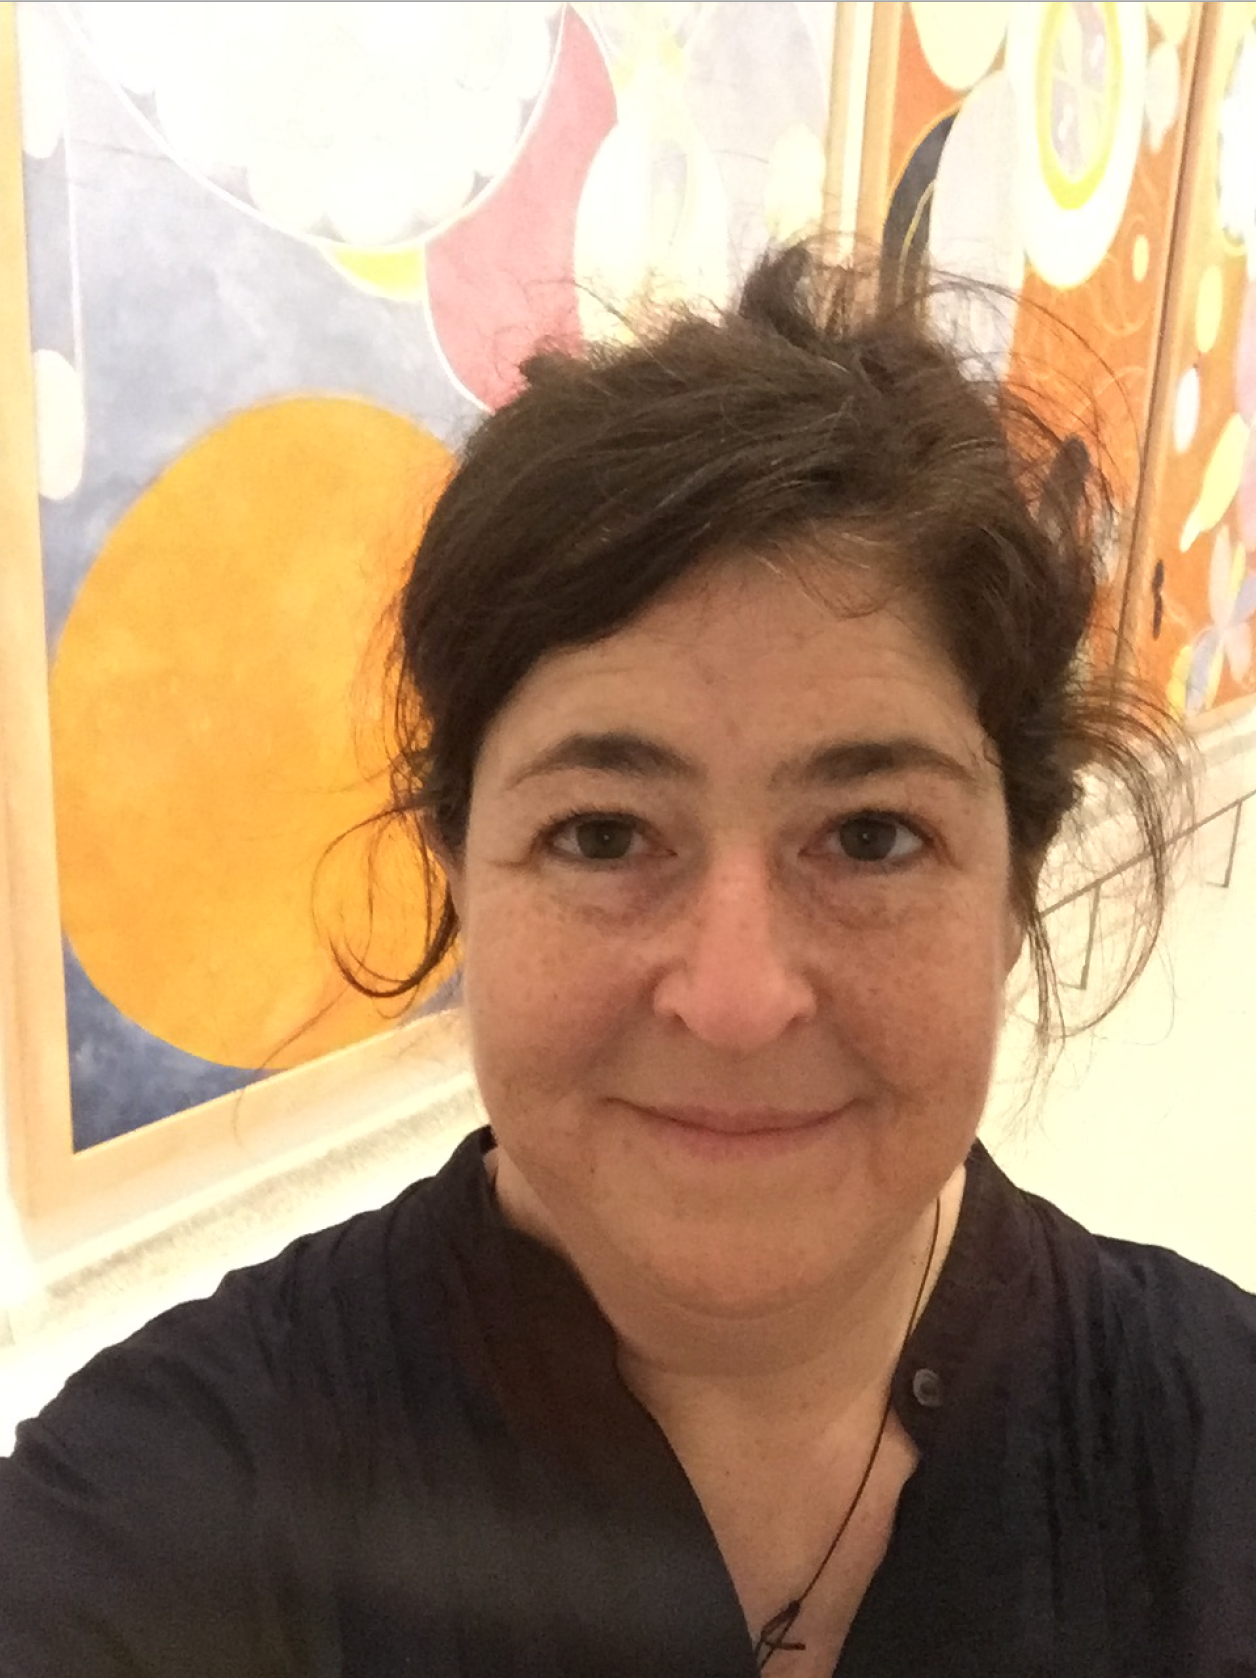
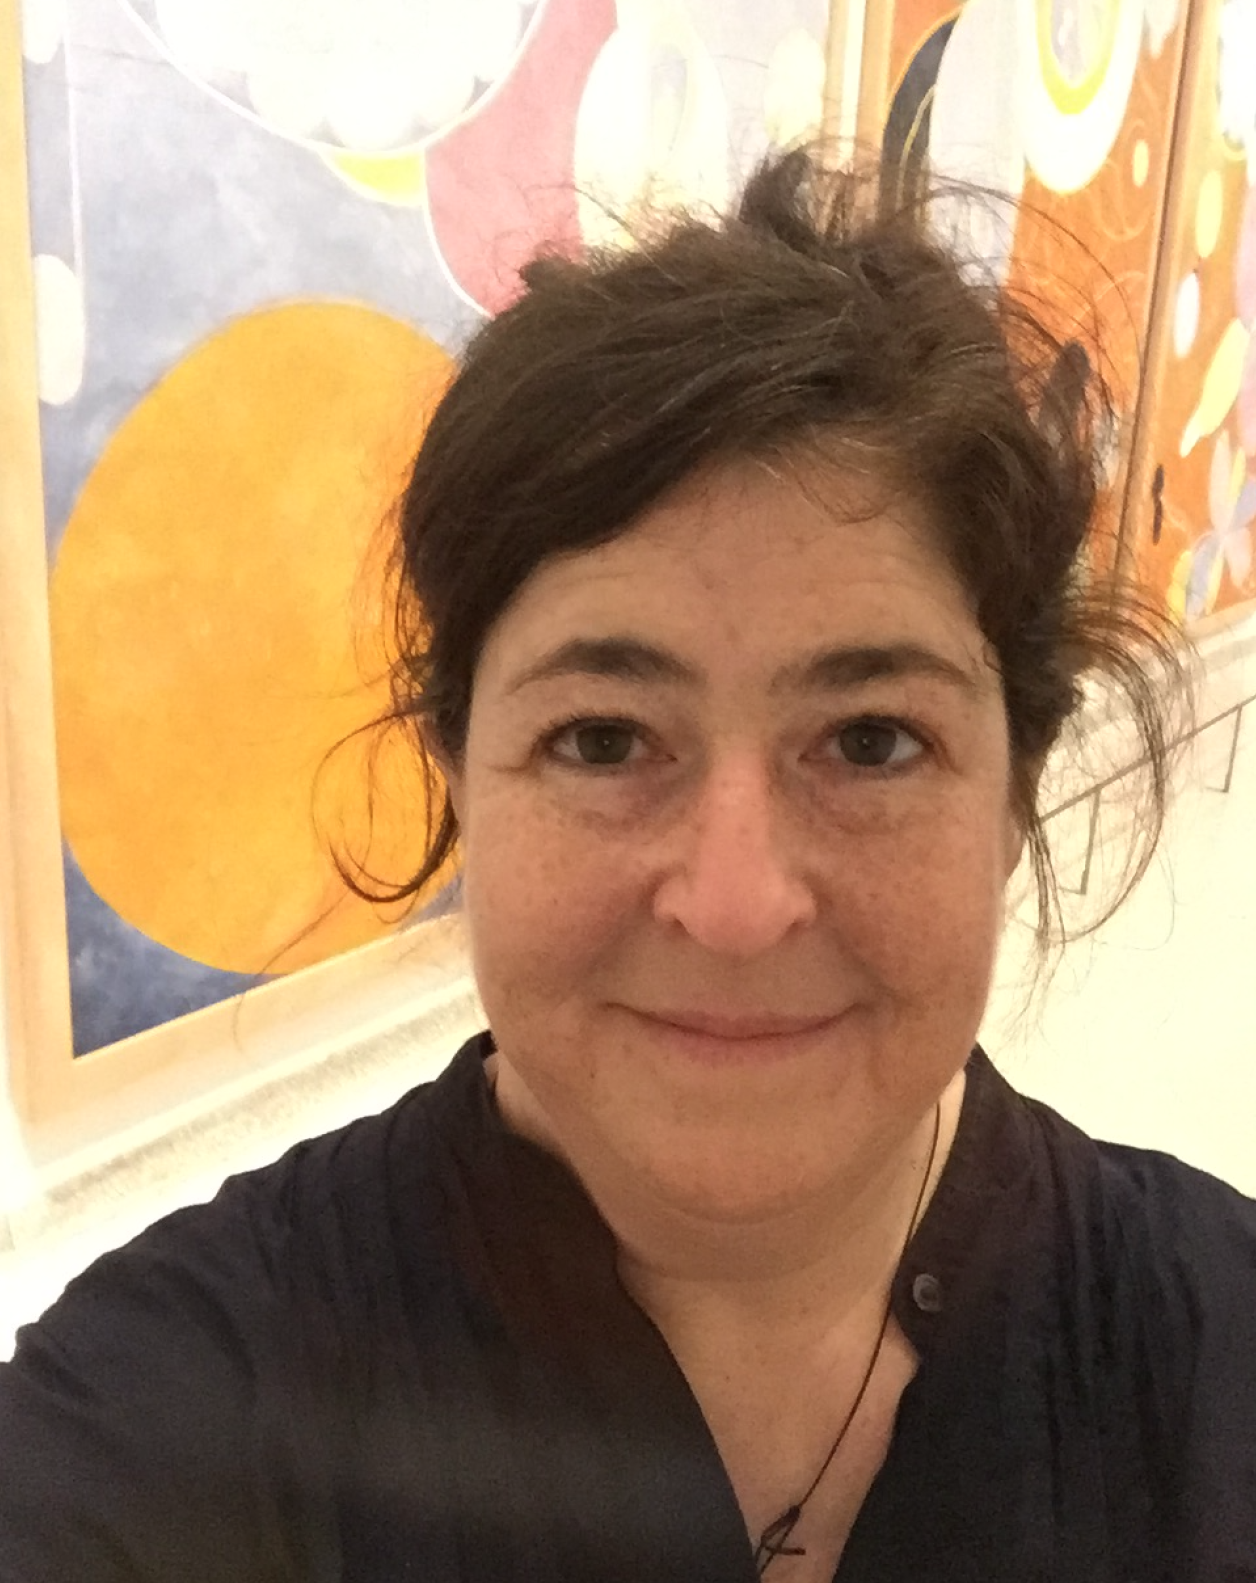
new order of elements on index page, marci new image added second pullout testimonial

diff --git a/index.html b/index.html
@@ -66,19 +66,13 @@
           <a href="mailto:marcidenmark@me.com" class="nav"> Get in touch!</a> </span>
       </div>
     </div>
+    <div class="spacing-70px"></div>
 
 
-
-    <!-- helena quote -->
-    <section class="banner-flex peach-background">
-      <h3>
-        <i class="nav fas fa-angle-double-right" style="font-size: 30px; color: #fc4827;"> </i> I can show Marci our vision, provide her with the content, and she turns it into beautiful UI. <i class="nav fas fa-angle-double-right" style="font-size: 30px; color: #fc4827;"></i> <span class="person">Helena Levison, founder CPHUX</span>
-      </h3>
-    </section>
     <!--  about  -->
-    <div class="two-col-grid-container">
-      <div class="marci">
-        <img src="images/marci-small.jpg" alt="" class="marci">
+    <div class="about-container">
+      <div class="">
+        <img src="images/marci-new.jpg" alt="" class="marci">
       </div>
       <div class="about-text">
         <div>
@@ -86,12 +80,9 @@
         </div>
         <div style="margin-top: 20px;">
           <div>
-            With years of experience working together with designers, writers, developers, managers, and various steak holders I know
+            With years of experience working together with designers, writers, developers, managers, and various stake holders I know
             how to create products that are engaging and meet expectations across departments and users.
           </div>
-          <!-- <div style="margin-top: 20px;">
-          I am avaliable for positions and projects with web design, UI, product design and frontend code.
-          </div> -->
           <div style="margin-top: 20px;">
             Reach out and we can talk about what you are looking for. I look forward to hearing from you!
           </div>
@@ -101,25 +92,20 @@
       </div>
     </div>
     <div class="spacing-70px"></div>
+
+    <!-- helena quote -->
+    <section class="banner-flex peach-background">
+      <h3>
+        <i class="nav fas fa-angle-double-right" style="font-size: 30px; color: #fc4827;"> </i> I can show Marci our vision, provide her with the content, and she turns it into beautiful UI. <i class="nav fas fa-angle-double-right" style="font-size: 30px; color: #fc4827;"></i> <span class="person">Helena Levison, founder CPHUX</span>
+      </h3>
+    </section>
+    <div class="spacing-70px"></div>
+
+    <div class="spacing-70px"></div>
     <a name="accomplishments"></a>
     <div class="headlines">Sampling of Projects</div>
     <div class="portfolio-banner-frontpage">
       <section class="">
-        <!-- Railsgirls
-        <div class="portfolio-box">
-          <h5>RailsGirls Mentoring App</h5>
-          <div class="subhead">
-            Figma Design / Wireframing / Prototyping / Design System / UI
-          </div>
-        <div class="portfolio-piece" style="background-image: url('images/railsgirls-b.png');">
-        </div>
-          <p>
-            I started with a wireframe where the other members of the group have had the possibility for feedback. Based on this feedback I updated  the wireframe.
-            Then in Figma the color palette, typography system, and components (forms, buttons, button states, and cards) were built.
-            After creating the components for easy reuse, I started to layout some forms with real information. It is still a work in progress.
-          </p>
-        </div> -->
-        <!-- ------------------------------------------ -->
         <div class="card-holder-flex">
           <!-- borsen -->
           <div class="portfolio-box card-flex">
@@ -451,6 +437,7 @@
             Bootstrap <span>&#187;</span>
             CSS <span>&#187;</span>
             CSS Grid <span>&#187;</span>
+            Figma <span>&#187;</span>
             FIlezilla <span>&#187;</span>
             Git <span>&#187;</span>
             HTML <span>&#187;</span>
@@ -463,8 +450,8 @@
         <div class="headlines-in-banner" style="margin-top:30px;">Tech Intermediate</div>
         <p style="margin-top:0px;"> <strong>
             Adobe XD <span>&#187;</span>
+            After Effects <span>&#187;</span>
             Django <span>&#187;</span>
-            Figma <span>&#187;</span>
             Git <span>&#187;</span>
             React <span>&#187;</span>
             Ruby on Rails <span>&#187;</span>
@@ -500,13 +487,13 @@
         </p>
       </div>
     </div>
-    <section class="banner-flex" style="height:35vh">
-      <h3>Text here</h3>
-      <!-- <h3>
-        <i class="nav fas fa-angle-double-right" style="font-size: 30px; color: #fc4827;"> </i> Marci has been a highly skilled team leader of the visual department at Ingeniøren. As a person she has been highly appreciated by all colleagues with her positive and smiling attitude.
-        <i class="nav fas fa-angle-double-right" style="font-size: 30px; color: #fc4827;"></i> <span class="person">Henning Mødsted, Managing Editor at Ingeniøren</span>
-      </h3> -->
+    <!-- helena quote -->
+    <section class="banner-flex peach-background" style="height: 25vh;">
+      <h3>
+        <i class="nav fas fa-angle-double-right" style="font-size: 30px; color: #fc4827;"> </i> Final testimonial here <i class="nav fas fa-angle-double-right" style="font-size: 30px; color: #fc4827;"></i> <span class="person">Name Here, Title, Company</span>
+      </h3>
     </section>
+
 
     <a name="contact"></a>
     <div class="footer">

diff --git a/css/Components/grid.css b/css/Components/grid.css
@@ -12,13 +12,8 @@
 
 .about-container {
 	display: grid;
-	grid-template-columns: 1fr auto;
-	padding: 0rem 6rem 0rem 0rem;
-}
-.about-container {
-	display: grid;
-	grid-template-columns: 1fr auto;
-	padding: 0rem 6rem 0rem 0rem;
+	grid-template-columns: 1fr 2fr;
+	padding: 1rem 6rem 0rem 6rem;
 }
 
 @media (max-width: 768px) {
